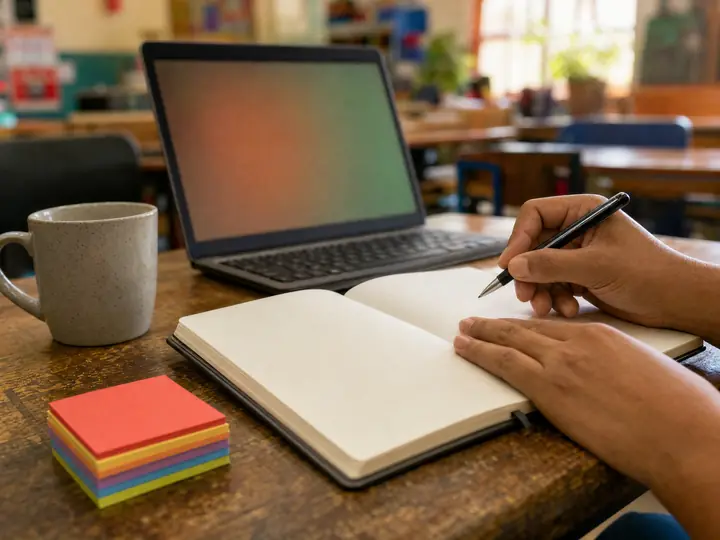
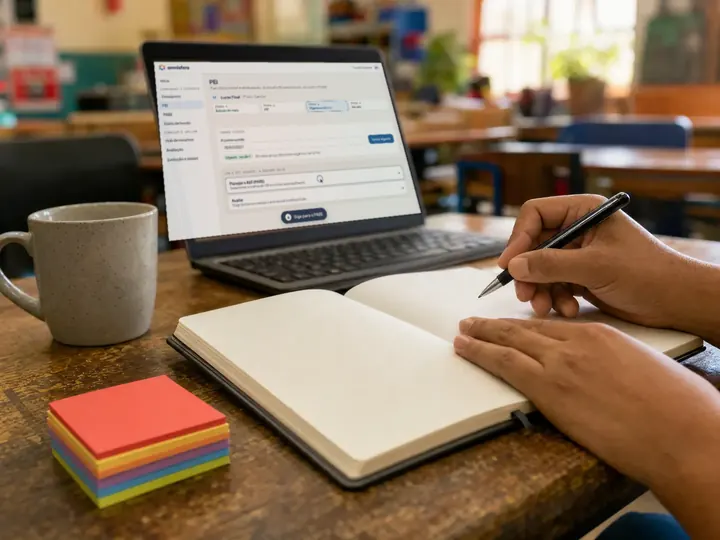
onda47-historia-fluida

Changed region(s): [[0.2139, 0.0889, 0.5806, 0.4444]]

diff --git a/nextjs-app/public/site/vivo.js b/nextjs-app/public/site/vivo.js
@@ -70,46 +70,68 @@ if(hero){
   go();
 }
 
-/* ---------------------------------------------------------------- 2. da barreira ao encontro */
+/* ---------------------------------------------------------------- 2. da barreira ao encontro
+   Onda 47: mais fluida. O desenho segue a rolagem com inércia (não salta), as barreiras entram e saem
+   uma de cada vez, os círculos respiram e entram em espiral para formar o símbolo, que segue girando devagar. */
 const story=document.getElementById('historia');
 if(story){
   const cv=story.querySelector('canvas'),steps=[...story.querySelectorAll('.st')];let S=fit(cv);
   const LBL=JSON.parse(story.dataset.rotulos),BAR=JSON.parse(story.dataset.barreiras);
   addEventListener('resize',()=>{S=fit(cv)});
+  if('ResizeObserver' in window)new ResizeObserver(()=>{S=fit(cv)}).observe(cv);
+  const ease=x=>{x=Math.max(0,Math.min(1,x));return x<.5?4*x*x*x:1-Math.pow(-2*x+2,3)/2};
   function prog(){ // progresso contínuo 0..3 ao longo dos passos
     const mid=innerHeight*.55;let p=0;
     steps.forEach((s,i)=>{const r=s.getBoundingClientRect();if(r.top<mid)p=i+Math.min(1,(mid-r.top)/r.height)});
     return Math.max(0,Math.min(3.999,p-0.2))}
-  function frame(){
-    const p=rm?Math.round(prog()):prog(),i=Math.floor(p),f=p-i;
-    steps.forEach((s,k)=>s.classList.toggle('on',k===Math.min(3,Math.round(p))));
+  let pd=prog(),last=performance.now(),t0=last,vis=true,ang=0;
+  if('IntersectionObserver' in window)new IntersectionObserver(es=>{vis=es[0].isIntersecting}).observe(story);
+  function frame(now){
+    requestAnimationFrame(frame);
+    if(!vis)return;
+    const dt=Math.min(50,now-last)/16.67;last=now;const t=(now-t0)/1000;
+    const alvo=prog();
+    pd=rm?Math.round(alvo):pd+(alvo-pd)*(1-Math.pow(1-.085,dt)); // inércia: aproxima sem saltar
+    const p=pd,i=Math.min(3,Math.floor(p)),f=p-i;
+    steps.forEach((s,k)=>s.classList.toggle('on',k===Math.min(3,Math.round(alvo))));
     const {ctx,w,h}=S,cx=w/2,cy=h/2,U=Math.min(w,h)/2;
     const spreadD=U*.54,spreadR=U*.15,symR=U*.36,symD=symR/.875;
-    const label=(t,x,y)=>{const tw=ctx.measureText(t).width;ctx.fillText(t,Math.max(tw/2+4,Math.min(w-tw/2-4,x)),y)};
-    const gathering=i===3?sm(f*2.4):0;
-    const barVis=k=>i===0?sm((f-.55)/.45):i===1?1:i===2?1-sm(f*7-k):0;
-    const dim=i===1?.35:i===2?.35*(1-sm(f*1.2)):0;
+    const pad=8,label=(tx,x,y)=>{const tw=ctx.measureText(tx).width;ctx.fillText(tx,Math.max(tw/2+pad,Math.min(w-tw/2-pad,x)),y)};
+    // juntar: só no último passo, com aceleração e desaceleração suaves
+    const gathering=i===3?ease(f*1.6):0;
+    // barreiras: entram uma a uma no fim do passo 1, ficam no 2 e saem uma a uma no 3
+    const barVis=k=>i===0?ease((f-.45)/.45*1.4-k*.08):i===1?1:i===2?1-ease(f*2.4-k*.26):0;
+    const dim=i===1?.35*ease(f*3):i===2?.35*(1-ease(f*1.3)):0;
     ctx.clearRect(0,0,w,h);
-    const bg=bgOf(document.body),ink=getComputedStyle(document.body).getPropertyValue('--ink').trim()||'#1b2a4a',mut=getComputedStyle(document.body).getPropertyValue('--mut').trim();
-    const cs=[0,1,2,3,4,5].map(k=>{const a=(k*60)*Math.PI/180,D=lerp(spreadD,symD,gathering),r=lerp(spreadR,symR,gathering);
-      const wob=rm?0:Math.sin(performance.now()/900+k)*2*(1-gathering);
-      return {x:cx+D*Math.sin(a)+wob,y:cy-D*Math.cos(a),r,k,a:1-dim}});
-    // barreiras: seis paredes entre os estudantes e o centro
+    const st=getComputedStyle(document.body),bg=bgOf(document.body),ink=st.getPropertyValue('--ink').trim()||'#1b2a4a',mut=st.getPropertyValue('--mut').trim();
+    // o conjunto gira devagar; ao se encontrar, entra em espiral e depois segue girando
+    if(!rm)ang+=dt*(.0016+.0024*gathering);                 // giro contínuo, um pouco mais rápido depois do encontro
+    const espiral=rm?0:Math.sin(gathering*Math.PI)*.55;      // no meio do encontro, os círculos entram girando
+    const giro=ang+espiral;
+    const cs=[0,1,2,3,4,5].map(k=>{
+      const a=(k*60)*Math.PI/180+giro;
+      const resp=rm?0:Math.sin(t*1.3+k*1.7)*U*.012*(1-gathering);
+      const empurra=(i===1||i===2)&&!rm?Math.sin(t*2.1+k)*U*.008*barVis(k):0; // encosta nas barreiras
+      const D=lerp(spreadD,symD,gathering)+resp+empurra,r=lerp(spreadR,symR,gathering)*(1+(rm?0:Math.sin(t*1.7+k)*.025*(1-gathering)));
+      return {x:cx+D*Math.sin(a),y:cy-D*Math.cos(a),r,k,a:1-dim}});
+    // barreiras: crescem do centro para fora e somem encolhendo, com transparência
     {ctx.lineCap='round';
-      for(let k=0;k<6;k++){const a=((k*60)+30)*Math.PI/180;const vis=barVis(k);if(vis<=0)continue;
-        const r1=U*.15,r2=U*.15+U*.5*vis;ctx.strokeStyle=ink;ctx.globalAlpha=.85;ctx.lineWidth=Math.max(6,U*.035);
+      ctx.font=`600 ${Math.max(11,U*.045)}px "JetBrains Mono",monospace`;ctx.textAlign='center';
+      for(let k=0;k<6;k++){const v=barVis(k);if(v<=.002)continue;
+        const a=((k*60)+30)*Math.PI/180+giro;
+        const r1=U*.15+U*.08*(1-v),r2=r1+U*.5*v;
+        ctx.strokeStyle=ink;ctx.globalAlpha=.85*Math.min(1,v*1.6);ctx.lineWidth=Math.max(6,U*.035)*(.6+.4*v);
         ctx.beginPath();ctx.moveTo(cx+r1*Math.sin(a),cy-r1*Math.cos(a));ctx.lineTo(cx+r2*Math.sin(a),cy-r2*Math.cos(a));ctx.stroke();
-        ctx.globalAlpha=vis;ctx.fillStyle=ink;ctx.font=`600 ${Math.max(11,U*.045)}px "JetBrains Mono",monospace`;ctx.textAlign='center';
+        ctx.globalAlpha=ease(v);ctx.fillStyle=ink;
         const lr=U*.8;label(BAR[k],cx+lr*Math.sin(a),cy-lr*Math.cos(a)+4)}
       ctx.globalAlpha=1}
     paint(ctx,cs,bg,{luz:true});
-    // rótulos dos estudantes (passo 1)
-    const la=i===0?1-sm((f-.45)/.3):0;
-    if(la>0&&gathering===0){ctx.globalAlpha=la;ctx.fillStyle=ink;ctx.font=`600 ${Math.max(12,U*.05)}px "Plus Jakarta Sans",sans-serif`;ctx.textAlign='center';
-      cs.forEach((c,k)=>{const a=(k*60)*Math.PI/180,lr=spreadD+spreadR+U*.09;const lines=LBL[k].split('|');
+    // rótulos dos estudantes (passo 1), somem devagar quando as barreiras chegam
+    const la=i===0?1-ease((f-.35)/.35):0;
+    if(la>.01&&gathering===0){ctx.globalAlpha=la;ctx.fillStyle=ink;ctx.font=`600 ${Math.max(12,U*.05)}px "Plus Jakarta Sans",sans-serif`;ctx.textAlign='center';
+      cs.forEach((c,k)=>{const a=Math.atan2(c.x-cx,cy-c.y),lr=Math.hypot(c.x-cx,c.y-cy)+spreadR+U*.09;const lines=LBL[k].split('|');
         lines.forEach((ln,j)=>label(ln,cx+lr*Math.sin(a),cy-lr*Math.cos(a)+(j-(lines.length-1)/2)*U*.06+4))});ctx.globalAlpha=1}
-    if(i===3&&gathering>.9){ctx.globalAlpha=sm((gathering-.9)*10);ctx.fillStyle=mut;ctx.font=`600 ${Math.max(12,U*.05)}px "Plus Jakarta Sans",sans-serif`;ctx.textAlign='center';ctx.fillText('o espaço comum',cx,cy+symD+symR+U*.12);ctx.globalAlpha=1}
-    requestAnimationFrame(frame);
+    if(gathering>.85){ctx.globalAlpha=ease((gathering-.85)/.15);ctx.fillStyle=mut;ctx.font=`600 ${Math.max(12,U*.05)}px "Plus Jakarta Sans",sans-serif`;ctx.textAlign='center';ctx.fillText('o espaço comum',cx,cy+symD+symR+U*.12);ctx.globalAlpha=1}
   }
   requestAnimationFrame(frame);
 }

diff --git a/nextjs-app/public/site/index.html b/nextjs-app/public/site/index.html
@@ -15,8 +15,8 @@
 <link rel="icon" href="/site/favicon.svg" type="image/svg+xml"><link rel="icon" href="/site/favicon.png" sizes="32x32"><link rel="apple-touch-icon" href="/site/apple-touch-icon.png">
 <link rel="preconnect" href="https://fonts.googleapis.com"><link rel="preconnect" href="https://fonts.gstatic.com" crossorigin>
 <link rel="stylesheet" href="https://fonts.googleapis.com/css2?family=Plus+Jakarta+Sans:ital,wght@0,400;0,500;0,600;0,700;0,800;1,400&family=JetBrains+Mono:wght@500&display=swap">
-<link rel="stylesheet" href="/site/style.css?v=202610141655">
-<script src="/site/vivo.js?v=202610141655" defer></script><script src="/site/plataforma.js?v=202610141655" defer></script></head>
+<link rel="stylesheet" href="/site/style.css?v=202610141702">
+<script src="/site/vivo.js?v=202610141702" defer></script><script src="/site/plataforma.js?v=202610141702" defer></script></head>
 <body class="ac5">
 <a class="skip" href="#conteudo">Pular para o conteúdo</a>
 <header class="top"><div class="wrap">
@@ -231,6 +231,6 @@
   <div class="legal"><p>Conteúdo formativo, atualizado em outubro de 2026 com base nos textos oficiais (Planalto, Câmara dos Deputados e MEC). Não é orientação jurídica: diante de um caso concreto, procure a coordenação, a secretaria de educação, a Defensoria Pública ou o Ministério Público.</p>
   <p>© 2026 Omnisfera Soluções Educacionais Ltda.</p></div>
 </div></footer>
-<script src="/site/site.js?v=202610141655" defer></script>
+<script src="/site/site.js?v=202610141702" defer></script>
 </body>
 </html>

diff --git a/nextjs-app/public/site/na-midia/index.html b/nextjs-app/public/site/na-midia/index.html
@@ -15,8 +15,8 @@
 <link rel="icon" href="/site/favicon.svg" type="image/svg+xml"><link rel="icon" href="/site/favicon.png" sizes="32x32"><link rel="apple-touch-icon" href="/site/apple-touch-icon.png">
 <link rel="preconnect" href="https://fonts.googleapis.com"><link rel="preconnect" href="https://fonts.gstatic.com" crossorigin>
 <link rel="stylesheet" href="https://fonts.googleapis.com/css2?family=Plus+Jakarta+Sans:ital,wght@0,400;0,500;0,600;0,700;0,800;1,400&family=JetBrains+Mono:wght@500&display=swap">
-<link rel="stylesheet" href="/site/style.css?v=202610141655">
-<script src="/site/vivo.js?v=202610141655" defer></script><script src="/site/plataforma.js?v=202610141655" defer></script></head>
+<link rel="stylesheet" href="/site/style.css?v=202610141702">
+<script src="/site/vivo.js?v=202610141702" defer></script><script src="/site/plataforma.js?v=202610141702" defer></script></head>
 <body class="ac5">
 <a class="skip" href="#conteudo">Pular para o conteúdo</a>
 <header class="top"><div class="wrap">
@@ -51,6 +51,6 @@
   <div class="legal"><p>Conteúdo formativo, atualizado em outubro de 2026 com base nos textos oficiais (Planalto, Câmara dos Deputados e MEC). Não é orientação jurídica: diante de um caso concreto, procure a coordenação, a secretaria de educação, a Defensoria Pública ou o Ministério Público.</p>
   <p>© 2026 Omnisfera Soluções Educacionais Ltda.</p></div>
 </div></footer>
-<script src="/site/site.js?v=202610141655" defer></script>
+<script src="/site/site.js?v=202610141702" defer></script>
 </body>
 </html>

diff --git a/nextjs-app/public/site/videos/index.html b/nextjs-app/public/site/videos/index.html
@@ -15,8 +15,8 @@
 <link rel="icon" href="/site/favicon.svg" type="image/svg+xml"><link rel="icon" href="/site/favicon.png" sizes="32x32"><link rel="apple-touch-icon" href="/site/apple-touch-icon.png">
 <link rel="preconnect" href="https://fonts.googleapis.com"><link rel="preconnect" href="https://fonts.gstatic.com" crossorigin>
 <link rel="stylesheet" href="https://fonts.googleapis.com/css2?family=Plus+Jakarta+Sans:ital,wght@0,400;0,500;0,600;0,700;0,800;1,400&family=JetBrains+Mono:wght@500&display=swap">
-<link rel="stylesheet" href="/site/style.css?v=202610141655">
-<script src="/site/vivo.js?v=202610141655" defer></script><script src="/site/plataforma.js?v=202610141655" defer></script></head>
+<link rel="stylesheet" href="/site/style.css?v=202610141702">
+<script src="/site/vivo.js?v=202610141702" defer></script><script src="/site/plataforma.js?v=202610141702" defer></script></head>
 <body class="ac1">
 <a class="skip" href="#conteudo">Pular para o conteúdo</a>
 <header class="top"><div class="wrap">
@@ -51,6 +51,6 @@
   <div class="legal"><p>Conteúdo formativo, atualizado em outubro de 2026 com base nos textos oficiais (Planalto, Câmara dos Deputados e MEC). Não é orientação jurídica: diante de um caso concreto, procure a coordenação, a secretaria de educação, a Defensoria Pública ou o Ministério Público.</p>
   <p>© 2026 Omnisfera Soluções Educacionais Ltda.</p></div>
 </div></footer>
-<script src="/site/site.js?v=202610141655" defer></script>
+<script src="/site/site.js?v=202610141702" defer></script>
 </body>
 </html>

diff --git a/nextjs-app/public/site/adaptar-e-avaliar/index.html b/nextjs-app/public/site/adaptar-e-avaliar/index.html
@@ -15,7 +15,7 @@
 <link rel="icon" href="/site/favicon.svg" type="image/svg+xml"><link rel="icon" href="/site/favicon.png" sizes="32x32"><link rel="apple-touch-icon" href="/site/apple-touch-icon.png">
 <link rel="preconnect" href="https://fonts.googleapis.com"><link rel="preconnect" href="https://fonts.gstatic.com" crossorigin>
 <link rel="stylesheet" href="https://fonts.googleapis.com/css2?family=Plus+Jakarta+Sans:ital,wght@0,400;0,500;0,600;0,700;0,800;1,400&family=JetBrains+Mono:wght@500&display=swap">
-<link rel="stylesheet" href="/site/style.css?v=202610141655">
+<link rel="stylesheet" href="/site/style.css?v=202610141702">
 </head>
 <body class="ac3">
 <a class="skip" href="#conteudo">Pular para o conteúdo</a>
@@ -135,6 +135,6 @@
   <div class="legal"><p>Conteúdo formativo, atualizado em outubro de 2026 com base nos textos oficiais (Planalto, Câmara dos Deputados e MEC). Não é orientação jurídica: diante de um caso concreto, procure a coordenação, a secretaria de educação, a Defensoria Pública ou o Ministério Público.</p>
   <p>© 2026 Omnisfera Soluções Educacionais Ltda.</p></div>
 </div></footer>
-<script src="/site/site.js?v=202610141655" defer></script>
+<script src="/site/site.js?v=202610141702" defer></script>
 </body>
 </html>

diff --git a/nextjs-app/public/site/altas-habilidades/index.html b/nextjs-app/public/site/altas-habilidades/index.html
@@ -15,7 +15,7 @@
 <link rel="icon" href="/site/favicon.svg" type="image/svg+xml"><link rel="icon" href="/site/favicon.png" sizes="32x32"><link rel="apple-touch-icon" href="/site/apple-touch-icon.png">
 <link rel="preconnect" href="https://fonts.googleapis.com"><link rel="preconnect" href="https://fonts.gstatic.com" crossorigin>
 <link rel="stylesheet" href="https://fonts.googleapis.com/css2?family=Plus+Jakarta+Sans:ital,wght@0,400;0,500;0,600;0,700;0,800;1,400&family=JetBrains+Mono:wght@500&display=swap">
-<link rel="stylesheet" href="/site/style.css?v=202610141655">
+<link rel="stylesheet" href="/site/style.css?v=202610141702">
 </head>
 <body class="ac4">
 <a class="skip" href="#conteudo">Pular para o conteúdo</a>
@@ -118,6 +118,6 @@
   <div class="legal"><p>Conteúdo formativo, atualizado em outubro de 2026 com base nos textos oficiais (Planalto, Câmara dos Deputados e MEC). Não é orientação jurídica: diante de um caso concreto, procure a coordenação, a secretaria de educação, a Defensoria Pública ou o Ministério Público.</p>
   <p>© 2026 Omnisfera Soluções Educacionais Ltda.</p></div>
 </div></footer>
-<script src="/site/site.js?v=202610141655" defer></script>
+<script src="/site/site.js?v=202610141702" defer></script>
 </body>
 </html>

diff --git a/nextjs-app/public/site/autismo/index.html b/nextjs-app/public/site/autismo/index.html
@@ -15,7 +15,7 @@
 <link rel="icon" href="/site/favicon.svg" type="image/svg+xml"><link rel="icon" href="/site/favicon.png" sizes="32x32"><link rel="apple-touch-icon" href="/site/apple-touch-icon.png">
 <link rel="preconnect" href="https://fonts.googleapis.com"><link rel="preconnect" href="https://fonts.gstatic.com" crossorigin>
 <link rel="stylesheet" href="https://fonts.googleapis.com/css2?family=Plus+Jakarta+Sans:ital,wght@0,400;0,500;0,600;0,700;0,800;1,400&family=JetBrains+Mono:wght@500&display=swap">
-<link rel="stylesheet" href="/site/style.css?v=202610141655">
+<link rel="stylesheet" href="/site/style.css?v=202610141702">
 </head>
 <body class="ac1">
 <a class="skip" href="#conteudo">Pular para o conteúdo</a>
@@ -129,6 +129,6 @@
   <div class="legal"><p>Conteúdo formativo, atualizado em outubro de 2026 com base nos textos oficiais (Planalto, Câmara dos Deputados e MEC). Não é orientação jurídica: diante de um caso concreto, procure a coordenação, a secretaria de educação, a Defensoria Pública ou o Ministério Público.</p>
   <p>© 2026 Omnisfera Soluções Educacionais Ltda.</p></div>
 </div></footer>
-<script src="/site/site.js?v=202610141655" defer></script>
+<script src="/site/site.js?v=202610141702" defer></script>
 </body>
 </html>

diff --git a/nextjs-app/public/site/conceitos/index.html b/nextjs-app/public/site/conceitos/index.html
@@ -15,7 +15,7 @@
 <link rel="icon" href="/site/favicon.svg" type="image/svg+xml"><link rel="icon" href="/site/favicon.png" sizes="32x32"><link rel="apple-touch-icon" href="/site/apple-touch-icon.png">
 <link rel="preconnect" href="https://fonts.googleapis.com"><link rel="preconnect" href="https://fonts.gstatic.com" crossorigin>
 <link rel="stylesheet" href="https://fonts.googleapis.com/css2?family=Plus+Jakarta+Sans:ital,wght@0,400;0,500;0,600;0,700;0,800;1,400&family=JetBrains+Mono:wght@500&display=swap">
-<link rel="stylesheet" href="/site/style.css?v=202610141655">
+<link rel="stylesheet" href="/site/style.css?v=202610141702">
 </head>
 <body class="ac4">
 <a class="skip" href="#conteudo">Pular para o conteúdo</a>
@@ -140,6 +140,6 @@
   <div class="legal"><p>Conteúdo formativo, atualizado em outubro de 2026 com base nos textos oficiais (Planalto, Câmara dos Deputados e MEC). Não é orientação jurídica: diante de um caso concreto, procure a coordenação, a secretaria de educação, a Defensoria Pública ou o Ministério Público.</p>
   <p>© 2026 Omnisfera Soluções Educacionais Ltda.</p></div>
 </div></footer>
-<script src="/site/site.js?v=202610141655" defer></script>
+<script src="/site/site.js?v=202610141702" defer></script>
 </body>
 </html>

diff --git a/nextjs-app/public/site/conhecer-o-estudante/index.html b/nextjs-app/public/site/conhecer-o-estudante/index.html
@@ -15,7 +15,7 @@
 <link rel="icon" href="/site/favicon.svg" type="image/svg+xml"><link rel="icon" href="/site/favicon.png" sizes="32x32"><link rel="apple-touch-icon" href="/site/apple-touch-icon.png">
 <link rel="preconnect" href="https://fonts.googleapis.com"><link rel="preconnect" href="https://fonts.gstatic.com" crossorigin>
 <link rel="stylesheet" href="https://fonts.googleapis.com/css2?family=Plus+Jakarta+Sans:ital,wght@0,400;0,500;0,600;0,700;0,800;1,400&family=JetBrains+Mono:wght@500&display=swap">
-<link rel="stylesheet" href="/site/style.css?v=202610141655">
+<link rel="stylesheet" href="/site/style.css?v=202610141702">
 </head>
 <body class="ac6">
 <a class="skip" href="#conteudo">Pular para o conteúdo</a>
@@ -134,6 +134,6 @@
   <div class="legal"><p>Conteúdo formativo, atualizado em outubro de 2026 com base nos textos oficiais (Planalto, Câmara dos Deputados e MEC). Não é orientação jurídica: diante de um caso concreto, procure a coordenação, a secretaria de educação, a Defensoria Pública ou o Ministério Público.</p>
   <p>© 2026 Omnisfera Soluções Educacionais Ltda.</p></div>
 </div></footer>
-<script src="/site/site.js?v=202610141655" defer></script>
+<script src="/site/site.js?v=202610141702" defer></script>
 </body>
 </html>

diff --git a/nextjs-app/public/site/deficiencia-intelectual/index.html b/nextjs-app/public/site/deficiencia-intelectual/index.html
@@ -15,7 +15,7 @@
 <link rel="icon" href="/site/favicon.svg" type="image/svg+xml"><link rel="icon" href="/site/favicon.png" sizes="32x32"><link rel="apple-touch-icon" href="/site/apple-touch-icon.png">
 <link rel="preconnect" href="https://fonts.googleapis.com"><link rel="preconnect" href="https://fonts.gstatic.com" crossorigin>
 <link rel="stylesheet" href="https://fonts.googleapis.com/css2?family=Plus+Jakarta+Sans:ital,wght@0,400;0,500;0,600;0,700;0,800;1,400&family=JetBrains+Mono:wght@500&display=swap">
-<link rel="stylesheet" href="/site/style.css?v=202610141655">
+<link rel="stylesheet" href="/site/style.css?v=202610141702">
 </head>
 <body class="ac2">
 <a class="skip" href="#conteudo">Pular para o conteúdo</a>
@@ -123,6 +123,6 @@
   <div class="legal"><p>Conteúdo formativo, atualizado em outubro de 2026 com base nos textos oficiais (Planalto, Câmara dos Deputados e MEC). Não é orientação jurídica: diante de um caso concreto, procure a coordenação, a secretaria de educação, a Defensoria Pública ou o Ministério Público.</p>
   <p>© 2026 Omnisfera Soluções Educacionais Ltda.</p></div>
 </div></footer>
-<script src="/site/site.js?v=202610141655" defer></script>
+<script src="/site/site.js?v=202610141702" defer></script>
 </body>
 </html>

diff --git a/nextjs-app/public/site/dislexia-discalculia-tdah/index.html b/nextjs-app/public/site/dislexia-discalculia-tdah/index.html
@@ -15,7 +15,7 @@
 <link rel="icon" href="/site/favicon.svg" type="image/svg+xml"><link rel="icon" href="/site/favicon.png" sizes="32x32"><link rel="apple-touch-icon" href="/site/apple-touch-icon.png">
 <link rel="preconnect" href="https://fonts.googleapis.com"><link rel="preconnect" href="https://fonts.gstatic.com" crossorigin>
 <link rel="stylesheet" href="https://fonts.googleapis.com/css2?family=Plus+Jakarta+Sans:ital,wght@0,400;0,500;0,600;0,700;0,800;1,400&family=JetBrains+Mono:wght@500&display=swap">
-<link rel="stylesheet" href="/site/style.css?v=202610141655">
+<link rel="stylesheet" href="/site/style.css?v=202610141702">
 </head>
 <body class="ac3">
 <a class="skip" href="#conteudo">Pular para o conteúdo</a>
@@ -136,6 +136,6 @@
   <div class="legal"><p>Conteúdo formativo, atualizado em outubro de 2026 com base nos textos oficiais (Planalto, Câmara dos Deputados e MEC). Não é orientação jurídica: diante de um caso concreto, procure a coordenação, a secretaria de educação, a Defensoria Pública ou o Ministério Público.</p>
   <p>© 2026 Omnisfera Soluções Educacionais Ltda.</p></div>
 </div></footer>
-<script src="/site/site.js?v=202610141655" defer></script>
+<script src="/site/site.js?v=202610141702" defer></script>
 </body>
 </html>

diff --git a/nextjs-app/public/site/dua-e-caa/index.html b/nextjs-app/public/site/dua-e-caa/index.html
@@ -15,7 +15,7 @@
 <link rel="icon" href="/site/favicon.svg" type="image/svg+xml"><link rel="icon" href="/site/favicon.png" sizes="32x32"><link rel="apple-touch-icon" href="/site/apple-touch-icon.png">
 <link rel="preconnect" href="https://fonts.googleapis.com"><link rel="preconnect" href="https://fonts.gstatic.com" crossorigin>
 <link rel="stylesheet" href="https://fonts.googleapis.com/css2?family=Plus+Jakarta+Sans:ital,wght@0,400;0,500;0,600;0,700;0,800;1,400&family=JetBrains+Mono:wght@500&display=swap">
-<link rel="stylesheet" href="/site/style.css?v=202610141655">
+<link rel="stylesheet" href="/site/style.css?v=202610141702">
 </head>
 <body class="ac6">
 <a class="skip" href="#conteudo">Pular para o conteúdo</a>
@@ -121,6 +121,6 @@
   <div class="legal"><p>Conteúdo formativo, atualizado em outubro de 2026 com base nos textos oficiais (Planalto, Câmara dos Deputados e MEC). Não é orientação jurídica: diante de um caso concreto, procure a coordenação, a secretaria de educação, a Defensoria Pública ou o Ministério Público.</p>
   <p>© 2026 Omnisfera Soluções Educacionais Ltda.</p></div>
 </div></footer>
-<script src="/site/site.js?v=202610141655" defer></script>
+<script src="/site/site.js?v=202610141702" defer></script>
 </body>
 </html>
